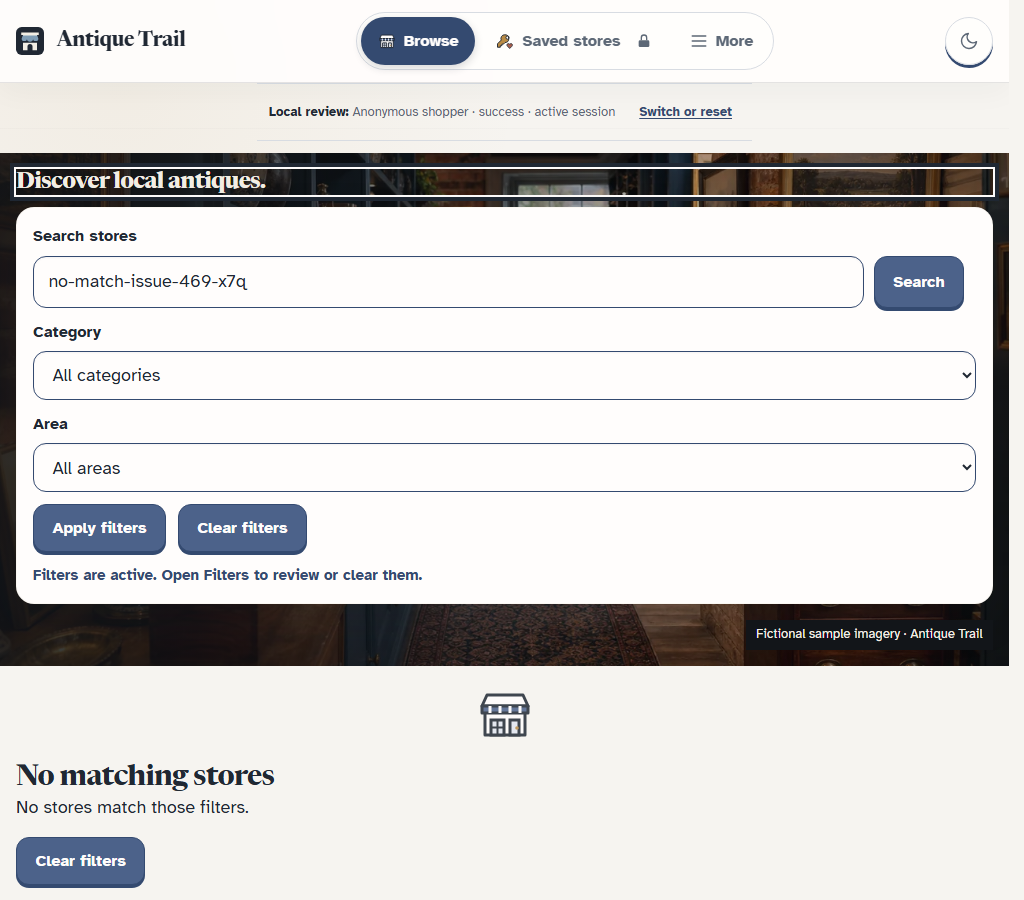
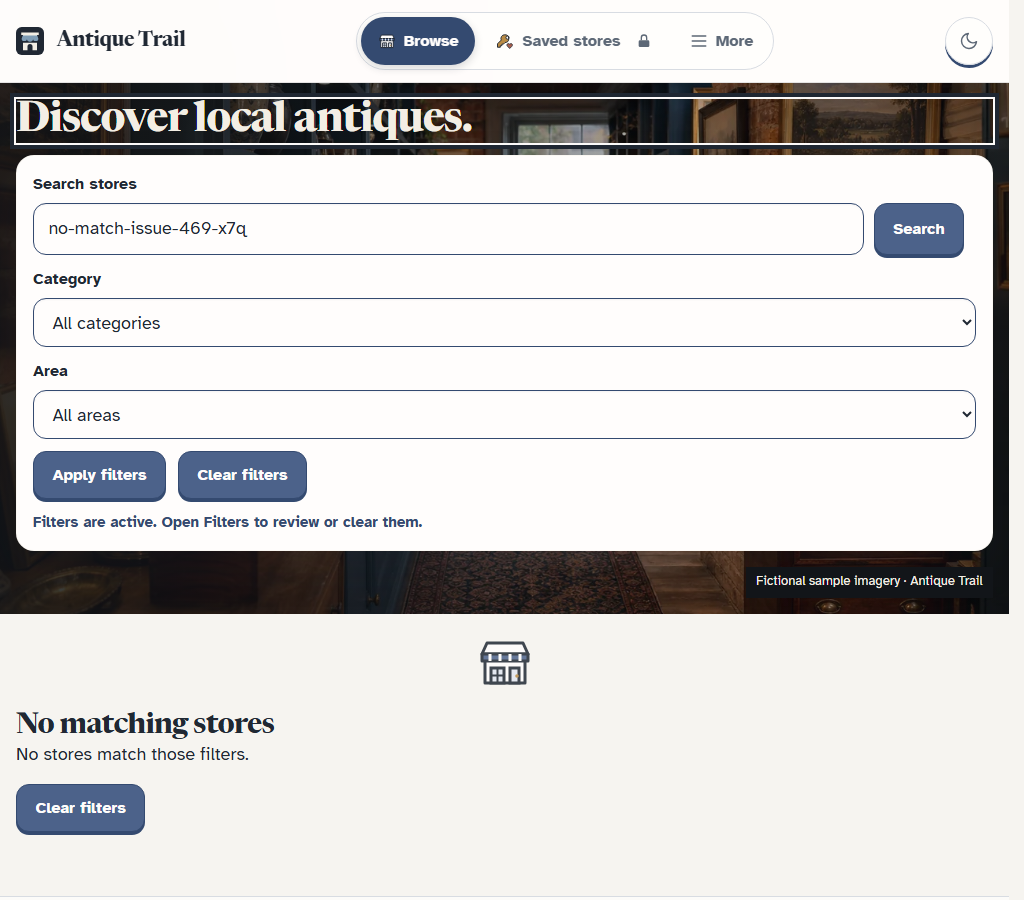
docs: refresh issue 469 viewport evidence

diff --git a/docs/evidence/issue-469/acceptance.md b/docs/evidence/issue-469/acceptance.md
@@ -7,36 +7,36 @@
 - Risk: standard; synthetic catalog data and presentation behavior only.
 - Admission baseline: `c9bb80250d5087ace3638059da09cd628bc1fad6`.
 - Current PR base: `de76d381ca7b522b25c61eea20920569085f3b93`.
-- Source candidate SHA: `6d8415f0125bd8bef093dd643c563951ec429d9a`.
-- Source PR head before this evidence-only update: `6d8415f0125bd8bef093dd643c563951ec429d9a`.
-- Diff fingerprint: `87dcb6d3148b9ca5110d39320a6d621a0222f6f2` for the application and regression-test files listed below against the current PR base.
+- Source candidate SHA: `aa4dc3457870a4517ec4ceed3369c2f231035bd2`.
+- Source PR head before this evidence-only update: `aa4dc3457870a4517ec4ceed3369c2f231035bd2`.
+- Diff fingerprint: `794bfaf6580a378381fb31836f105fd67ba146e5` for the application and regression-test files listed below against the current PR base.
 - Branch: `codex/issue-469-browse-results-viewport` in its isolated ticket worktree.
-- Evidence captured at: 2026-10-02 13:47 CDT, local Windows Chromium and Vite review harness.
+- Evidence captured at: 2026-10-02 14:10 CDT, local Windows Chromium and Vite review harness.
 
 ## Scope
 
-After a search, the Browse hero enters compact results mode, moves imagery attribution clear of filter feedback, and keeps the H1 visible at stacked widths while trimming editorial copy. At desktop widths, the compact hero keeps the search label visible, exposes the Filters toggle, and collapses the advanced panel; the original card order remains cover/placeholder before name. The smaller hero brings the actual linked first-card title into the initial viewport. Card columns and cover dimensions remain unchanged. At 320px, compact spacing and the decorative empty-state illustration are removed so recovery clears the bottom navigation. Active feedback remains inside the search form.
+After a search, the Browse hero enters compact results mode, moves imagery attribution clear of filter feedback, and keeps the H1 visible at stacked widths while trimming editorial copy. The H1 retains the 42px page-title scale at every breakpoint. At desktop widths, the compact hero keeps the search label visible, exposes the Filters toggle, and collapses the advanced panel; the original card order remains cover/placeholder before name. The smaller hero brings the actual linked first-card title into the initial viewport. Card columns and cover dimensions remain unchanged. Result-count headings announce politely while retaining H2 semantics. At 320px, compact spacing and the decorative empty-state illustration are removed so recovery clears the bottom navigation. Active feedback remains inside the search form.
 
 Excluded: card density or image-size changes, catalog data changes, search/filter semantics, database/provider work, deployment, and production publication.
 
 The admission order remains #469 → #470 → #467. `origin/main` advanced to `de76d381` during review. Changes from the prior PR base affect auth/shopper source and test files, with no overlap in this ticket's application source files.
 
-GitHub CI on pre-rebase PR head `efaf864dcf6988bf6975444308cb130bf1a2ab38` passed web (12m05s, including browser tests), database (3m07s), and configured-owner-billing (4m03s); Supabase Preview was skipped. These results diagnose the old base and source only. Fresh CI for the rebased source candidate is pending after push.
+GitHub CI on pre-rebase PR head `efaf864dcf6988bf6975444308cb130bf1a2ab38` passed web (12m05s, including browser tests), database (3m07s), and configured-owner-billing (4m03s); Supabase Preview was skipped. These results diagnose the old base and source only; confirm required checks on the final pushed PR head and retain that receipt in the closure handoff.
 
 ## Acceptance
 
-| Criterion                        | Observable pass condition                                                                       | Verification method                                                                           | Result/evidence                                                                                                                                                                                                                                                                                        |
-| -------------------------------- | ----------------------------------------------------------------------------------------------- | --------------------------------------------------------------------------------------------- | ------------------------------------------------------------------------------------------------------------------------------------------------------------------------------------------------------------------------------------------------------------------------------------------------------ |
-| Search result visibility         | At 1276×720 and 1600×900, count and the actual first card title appear in the initial viewport. | Chromium browser geometry and screenshots.                                                    | Pass: count y=246–277; actual linked “Blue Finch Curios” H2 y=666–714. The cover precedes the title and remains 538×359px; grid stays two columns.                                                                                                                                                     |
-| No-match recovery                | Count/state and recovery action appear without scrolling past the full hero.                    | Chromium browser geometry and screenshots.                                                    | Pass at 1276×720 and 1600×900: heading y=326–357; Clear filters y=400–448. At 1024×900 and 768×900, Clear filters is y=837–885 and y=642–690. At 320×740, heading is y=495–526 and Clear filters y=557–605, above bottom navigation at y=623.                                                          |
-| Filter feedback and URL behavior | Feedback stays attached to a stable control surface; search and clear retain URL behavior.      | Chromium form/URL flow.                                                                       | Pass: status remains inside the search form, attribution does not overlap it, Enter yields `/stores?q=Blue+Finch`, Clear returns to `/stores` with 12 stores, and compact results mode remains active.                                                                                                 |
-| Accessibility and keyboard       | Controls remain labeled and keyboard operable; one visible page H1 remains at each breakpoint.  | Chromium accessible-role queries and keyboard flow.                                           | Pass: one visible H1, labeled search, Search button, card-title link, and visible Filters toggle. Keyboard Enter opens the compact desktop panel; category and area controls appear without horizontal overflow. Dark theme, forced-colors, reduced-motion, and text-spacing smoke checks also passed. |
-| 200% reflow                      | Narrow layout reflows at the resulting CSS viewport without horizontal scrolling.               | Chromium at a 638×360 CSS viewport and DPR 2, equivalent to 1276×720 physical pixels at 200%. | Pass: narrow breakpoints active, one H1 available, document width 623px versus 638px viewport. This emulates the resulting viewport; browser zoom UI itself was not toggled.                                                                                                                           |
-| 320px reflow                     | Layout has no horizontal page scrolling.                                                        | Chromium document/client width comparison.                                                    | Pass: document width 305px; client width 320px.                                                                                                                                                                                                                                                        |
+| Criterion                        | Observable pass condition                                                                       | Verification method                                                                           | Result/evidence                                                                                                                                                                                                                                                                                                                                        |
+| -------------------------------- | ----------------------------------------------------------------------------------------------- | --------------------------------------------------------------------------------------------- | ------------------------------------------------------------------------------------------------------------------------------------------------------------------------------------------------------------------------------------------------------------------------------------------------------------------------------------------------------ |
+| Search result visibility         | At 1276×720 and 1600×900, count and the actual first card title appear in the initial viewport. | Chromium browser geometry and screenshots.                                                    | Pass: count y=176–207; actual linked “Blue Finch Curios” H2 y=596–644. H1 stays 42px (y=132–176). The cover precedes the title and remains 538×359px; grid stays two columns.                                                                                                                                                                          |
+| No-match recovery                | Count/state and recovery action appear without scrolling past the full hero.                    | Chromium browser geometry and screenshots.                                                    | Pass at 1276×720 and 1600×900: heading y=256–287; Clear filters y=330–378. At 1024×900 and 768×900, Clear filters is y=784–832 and y=589–637. At 320×740, the 42px H1 wraps to y=101–188; heading is y=441–473 and Clear filters y=504–552, above bottom navigation at y=623.                                                                          |
+| Filter feedback and URL behavior | Feedback stays attached to a stable control surface; search and clear retain URL behavior.      | Chromium form/URL flow.                                                                       | Pass: status remains inside the search form, attribution does not overlap it, Enter yields `/stores?q=Blue+Finch`, Clear returns to `/stores` with 12 stores, and compact results mode remains active.                                                                                                                                                 |
+| Accessibility and keyboard       | Controls remain labeled and keyboard operable; one visible page H1 remains at each breakpoint.  | Chromium accessible-role queries and keyboard flow.                                           | Pass: one visible 42px H1, result count H2 with `aria-live="polite"`, labeled search, Search button, card-title link, and visible Filters toggle. Keyboard Enter opens the compact desktop panel; category and area controls appear without horizontal overflow. Dark theme, forced-colors, reduced-motion, and text-spacing smoke checks also passed. |
+| 200% reflow                      | Narrow layout reflows at the resulting CSS viewport without horizontal scrolling.               | Chromium at a 638×360 CSS viewport and DPR 2, equivalent to 1276×720 physical pixels at 200%. | Pass: narrow breakpoints active, one 42px H1 available, document width 623px versus 638px viewport. This emulates the resulting viewport; browser zoom UI itself was not toggled.                                                                                                                                                                      |
+| 320px reflow                     | Layout has no horizontal page scrolling.                                                        | Chromium document/client width comparison.                                                    | Pass: document width 305px; client width 320px.                                                                                                                                                                                                                                                                                                        |
 
 ### Rendered evidence
 
-Screenshots use the local review harness, which adds a synthetic “Local review” status banner. Browser console and page errors were empty.
+Screenshots use local synthetic catalog fixtures. The before captures retain the local-only review banner; after viewport captures hide only that development harness banner so it does not add non-product height. The separate public demo notice was not hidden. Search captures wait for the cover image to load. Browser console and page errors were empty.
 
 | View                       | Before                                                   | After                                                                             |
 | -------------------------- | -------------------------------------------------------- | --------------------------------------------------------------------------------- |
@@ -51,26 +51,26 @@ Screenshots use the local review harness, which adds a synthetic “Local review
 
 ## Verification
 
-| Layer                       | Command or flow                                                                                                                                                                              | Result                                                                                                                                                                                                                                      | Applies to SHA/environment                                  |
-| --------------------------- | -------------------------------------------------------------------------------------------------------------------------------------------------------------------------------------------- | ------------------------------------------------------------------------------------------------------------------------------------------------------------------------------------------------------------------------------------------- | ----------------------------------------------------------- |
-| Focused tests               | `npx vitest run --maxWorkers=1 src/features/catalog/liveEditorial.test.tsx src/features/catalog/countLabels.test.tsx src/features/catalog/components.test.tsx`                               | 43 passed across 3 files. One existing JSDOM navigation warning was logged after successful completion.                                                                                                                                     | Source candidate `6d8415f0`, local Windows checkout.        |
-| Typecheck                   | `npm run typecheck`                                                                                                                                                                          | Passed.                                                                                                                                                                                                                                     | Source candidate `6d8415f0`.                                |
-| Lint                        | `npm run lint`                                                                                                                                                                               | 0 errors; 16 existing warnings, none in changed files.                                                                                                                                                                                      | Source candidate `6d8415f0`.                                |
-| Format                      | `npx prettier --check src/app/styles.css src/features/catalog/components.tsx src/features/catalog/components.test.tsx src/features/catalog/liveEditorial.test.tsx`                           | Passed.                                                                                                                                                                                                                                     | Source candidate `6d8415f0`.                                |
-| Release tests               | `npm run test:release`                                                                                                                                                                       | 164 passed.                                                                                                                                                                                                                                 | Source candidate `6d8415f0`, local checkout.                |
-| Build and media             | `npm run build`; `node scripts/verify-seed-media.mjs --built-root dist`                                                                                                                      | Build passed; 10 paths verified, 0 errors.                                                                                                                                                                                                  | Source candidate `6d8415f0`, local.                         |
-| Layout detector             | `npx impeccable detect --json --scope layout src/features/catalog/components.tsx src/app/styles.css`                                                                                         | No findings (`[]`).                                                                                                                                                                                                                         | Source candidate `6d8415f0`.                                |
-| Desktop/mobile UI           | Search, no-match, clear, URL, visible H1, first card title order/visibility, filter-panel keyboard toggle, and caption/status overlap at 1600×900, 1276×720, 1024×900, 768×900, and 320×740. | All scripted checks passed; no horizontal overflow or console/page errors. At 1276×720 and 1600×900 the actual first card H2 follows its unchanged cover and appears y=666–714. At 320×740 Clear filters ends 18px above bottom navigation. | Source candidate `6d8415f0`, local Chromium review harness. |
-| 200% reflow                 | Chromium checked search and empty state at a 638×360 CSS viewport with DPR 2.                                                                                                                | Narrow layout active; one H1 remains visible; no horizontal overflow. Browser zoom UI itself was not toggled.                                                                                                                               | Source candidate `6d8415f0`, local Chromium.                |
-| Accessibility scope         | Chromium checked labels, one H1 at every tested width, keyboard toggle, dark theme, forced colors, reduced motion, text-spacing override, and 200% effective viewport.                       | Smoke checks passed. NVDA/VoiceOver screen readers and current/previous Chrome, Edge, Firefox, Safari, iOS Safari, and Android were not run; unverified. Contrast was not separately audited under forced colors.                           | Local Chromium only.                                        |
-| Full unit suite             | GitHub Actions CI on the pushed PR head.                                                                                                                                                     | Fresh CI for the rebased source candidate is pending.                                                                                                                                                                                       | Unverified on source candidate until CI completes.          |
-| Database/provider lifecycle | Not in issue scope.                                                                                                                                                                          | Not run.                                                                                                                                                                                                                                    | Unverified.                                                 |
-| Canonical production route  | Deployment is separate and not authorized for this ticket.                                                                                                                                   | Not run.                                                                                                                                                                                                                                    | Unverified.                                                 |
+| Layer                       | Command or flow                                                                                                                                                                                                        | Result                                                                                                                                                                                                                                           | Applies to SHA/environment                                  |
+| --------------------------- | ---------------------------------------------------------------------------------------------------------------------------------------------------------------------------------------------------------------------- | ------------------------------------------------------------------------------------------------------------------------------------------------------------------------------------------------------------------------------------------------ | ----------------------------------------------------------- |
+| Focused tests               | `npx vitest run --maxWorkers=1 src/app/styles.test.ts src/features/catalog/liveEditorial.test.tsx src/features/catalog/countLabels.test.tsx src/features/catalog/components.test.tsx`                                  | 79 passed across 4 files, including H1-scale, cover-order, and polite-count regressions. One existing JSDOM navigation warning was logged after successful completion.                                                                           | Source candidate `aa4dc345`, local Windows checkout.        |
+| Typecheck                   | `npm run typecheck`                                                                                                                                                                                                    | Passed.                                                                                                                                                                                                                                          | Source candidate `aa4dc345`.                                |
+| Lint                        | `npm run lint`                                                                                                                                                                                                         | 0 errors; 16 existing warnings, none in changed files.                                                                                                                                                                                           | Source candidate `aa4dc345`.                                |
+| Format                      | `npx prettier --check src/app/styles.css src/app/styles.test.ts src/features/catalog/components.tsx src/features/catalog/countLabels.test.tsx docs/evidence/issue-469/acceptance.md`                                   | Passed.                                                                                                                                                                                                                                          | Source candidate `aa4dc345`.                                |
+| Release tests               | `npm run test:release`                                                                                                                                                                                                 | 164 passed.                                                                                                                                                                                                                                      | Source candidate `aa4dc345`, local checkout.                |
+| Build and media             | `npm run build`; `node scripts/verify-seed-media.mjs --built-root dist`                                                                                                                                                | Build passed; 10 paths verified, 0 errors.                                                                                                                                                                                                       | Source candidate `aa4dc345`, local.                         |
+| Layout detector             | `npx impeccable detect --json --scope layout src/features/catalog/components.tsx src/app/styles.css`                                                                                                                   | No findings (`[]`).                                                                                                                                                                                                                              | Source candidate `aa4dc345`.                                |
+| Desktop/mobile UI           | Search, no-match, clear, URL, visible 42px H1, polite result count, first card title order/visibility, filter-panel keyboard toggle, and caption/status overlap at 1600×900, 1276×720, 1024×900, 768×900, and 320×740. | All scripted checks passed; no horizontal overflow or console/page errors. At 1276×720 and 1600×900 the linked first card H2 follows its unchanged cover at y=596–644. At 320×740 Clear filters ends at y=552, above bottom navigation at y=623. | Source candidate `aa4dc345`, local Chromium review harness. |
+| 200% reflow                 | Chromium checked search and empty state at a 638×360 CSS viewport with DPR 2.                                                                                                                                          | Narrow layout active; one 42px H1 remains visible; no horizontal overflow. Browser zoom UI itself was not toggled.                                                                                                                               | Source candidate `aa4dc345`, local Chromium.                |
+| Accessibility scope         | Chromium checked labels, polite count announcement, one 42px H1 at every tested width, keyboard toggle, dark theme, forced colors, reduced motion, text-spacing override, and 200% effective viewport.                 | Smoke checks passed. NVDA/VoiceOver screen readers and current/previous Chrome, Edge, Firefox, Safari, iOS Safari, and Android were not run; unverified. Contrast was not separately audited under forced colors.                                | Local Chromium only.                                        |
+| Full unit suite             | GitHub Actions required PR checks on the final pushed PR head.                                                                                                                                                         | Check all required jobs on the final head before merge; retain exact-head status in the closure handoff.                                                                                                                                         | Tracked on the pull request.                                |
+| Database/provider lifecycle | Not in issue scope.                                                                                                                                                                                                    | Not run.                                                                                                                                                                                                                                         | Unverified.                                                 |
+| Canonical production route  | Deployment is separate and not authorized for this ticket.                                                                                                                                                             | Not run.                                                                                                                                                                                                                                         | Unverified.                                                 |
 
 ## TDD and Project Reflection preflight
 
-- Red proof: the cover-before-heading regression failed on the pre-fix source; original viewport checks also showed the title below the fold, H1 clipped at stacked widths, and 320px no-match recovery below bottom navigation.
-- Green proof: 43 focused catalog tests passed, and Chromium confirmed the actual first card title after its cover, visible H1, and 320px recovery positions.
+- Red proof: cover-before-heading and focused H1-scale/polite-count regression tests failed before their fixes; original viewport checks also showed the title below the fold, H1 clipped at stacked widths, and 320px no-match recovery below bottom navigation.
+- Green proof: 79 focused tests passed, and Chromium confirmed the actual first card title after its cover, 42px H1 at every breakpoint, polite count semantics, and 320px recovery above bottom navigation.
 - Applied `L-20260927-02`: waited for the actual rendered content node before measuring layout.
 - Applied `L-20260930-01`: omitted workstation and vault paths from this shared evidence.
 - Applied `L-20260930-02`: verify the live linked-issue state after merge and close it explicitly if still open.
@@ -81,13 +81,13 @@ Screenshots use the local review harness, which adds a synthetic “Local review
 Reproduce from the candidate checkout:
 
 ```powershell
-git diff --binary --full-index de76d381ca7b522b25c61eea20920569085f3b93 HEAD -- src/app/styles.css src/features/catalog/components.tsx src/features/catalog/liveEditorial.test.tsx src/features/catalog/components.test.tsx | git hash-object --stdin
+git diff --binary --full-index de76d381ca7b522b25c61eea20920569085f3b93 HEAD -- src/app/styles.css src/app/styles.test.ts src/features/catalog/components.tsx src/features/catalog/components.test.tsx src/features/catalog/liveEditorial.test.tsx src/features/catalog/countLabels.test.tsx | git hash-object --stdin
 ```
 
-Current source-only fingerprint: `87dcb6d3148b9ca5110d39320a6d621a0222f6f2`.
+Current source-only fingerprint: `794bfaf6580a378381fb31836f105fd67ba146e5`.
 
 ## Independent review and gates
 
-- Pre-rebase standards and spec reviews passed at `efaf864`; root review found a card-order contract issue, resolved in this candidate. Fresh exact-head spec, standards, and root reviews, required CI, merge, resulting `main` SHA, and live issue closure remain pending.
+- Pre-rebase standards and spec reviews passed at `efaf864`; later reviews found and resolved H1-scale, live-count, and card-order contract issues. Confirm fresh exact-head spec, standards, and root reviews plus required CI before merge, then record resulting `main` SHA and live issue closure in the closure handoff.
 - Hosted/provider lifecycle and canonical production route remain unverified because deployment is outside this ticket.
 - Any affected source, configuration, fixture, or integration change invalidates corresponding proof.
